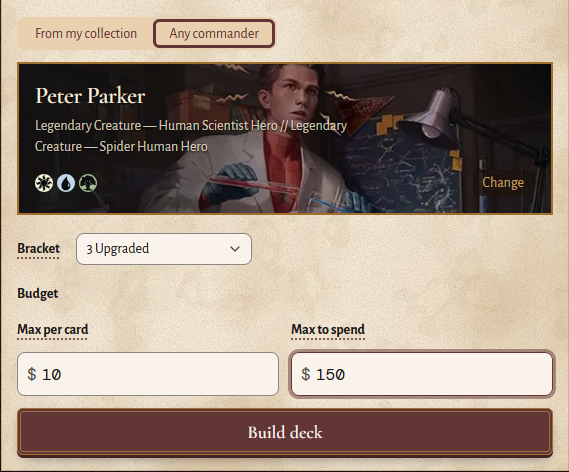
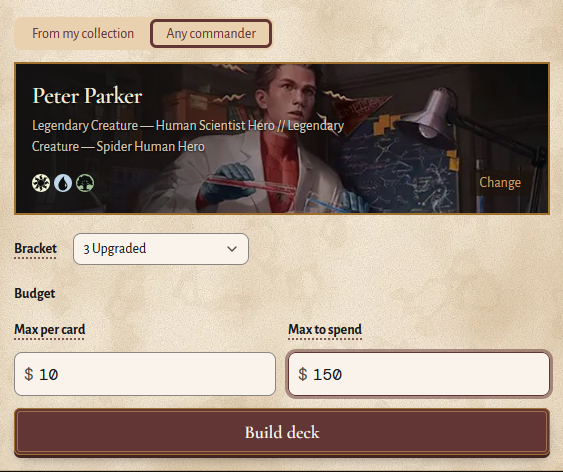
feat(web): How it works stills cropped to their clips, on paper
Each still is cropped to its clip's shape (empty paper rows and the stray tab bar off), so nothing shifts when the
clip starts. A clip narrower than the frame sits on the paper it was recorded on, not between dark bars.

Claude-Session: https://claude.ai/code/session_015iK9GyNkAR4L4aoDaGTrhZ

diff --git a/apps/web/src/components/home/how-it-works.tsx b/apps/web/src/components/home/how-it-works.tsx
@@ -13,10 +13,15 @@ interface StepClip {
   /** Muted and looping, offered as WebM first (smaller) and MP4 for browsers without it (iPhone Safari). */
   webm: string;
   mp4: string;
-  /** What shows before it plays, and all that shows under reduced motion. */
+  /** What shows before it plays, and all that shows under reduced motion. Cropped to the clip's shape. */
   poster: string;
   width: number;
   height: number;
+  /**
+   * The frame's ground around a clip narrower than it: the paper the clip was recorded on, so the clip's edges melt into
+   * the frame rather than sitting between dark bars.
+   */
+  matte: string;
 }
 
 /** Clip `n`'s three files. */
@@ -33,21 +38,21 @@ const TABS: { id: string; label: string; line: string; icon: typeof Crown; clip:
     label: "Choose any commander",
     line: "Any bracket. Any commander. Build more decks and buy fewer singles.",
     icon: Crown,
-    clip: { ...clipFiles(1), width: 596, height: 500 },
+    clip: { ...clipFiles(1), width: 596, height: 500, matte: "paper-ground" },
   },
   {
     id: "budget",
     label: "Build it on a budget",
     line: "Sometimes a few more cards bring a deck together. Set a budget per card or per deck, so there are no surprises.",
     icon: Coins,
-    clip: { ...clipFiles(2), width: 566, height: 468 },
+    clip: { ...clipFiles(2), width: 566, height: 468, matte: "paper-ground" },
   },
   {
     id: "tune",
     label: "Add, Cut, Swap & Share",
     line: "Start fresh or paste a decklist, and we'll take it to the next level without breaking the bank.",
     icon: Shuffle,
-    clip: { ...clipFiles(3), width: 608, height: 564 },
+    clip: { ...clipFiles(3), width: 608, height: 564, matte: "bg-(--paper-raised)" },
   },
 ];
 
@@ -69,7 +74,7 @@ function StepRecording({ clip }: { clip: StepClip }) {
     else void el.play().catch(() => undefined);
   }, [inView, reduceMotion]);
   return (
-    <div className="absolute inset-1">
+    <div className={cn("absolute inset-1 overflow-hidden rounded-sm", clip.matte)}>
       <video
         ref={video}
         poster={clip.poster}
